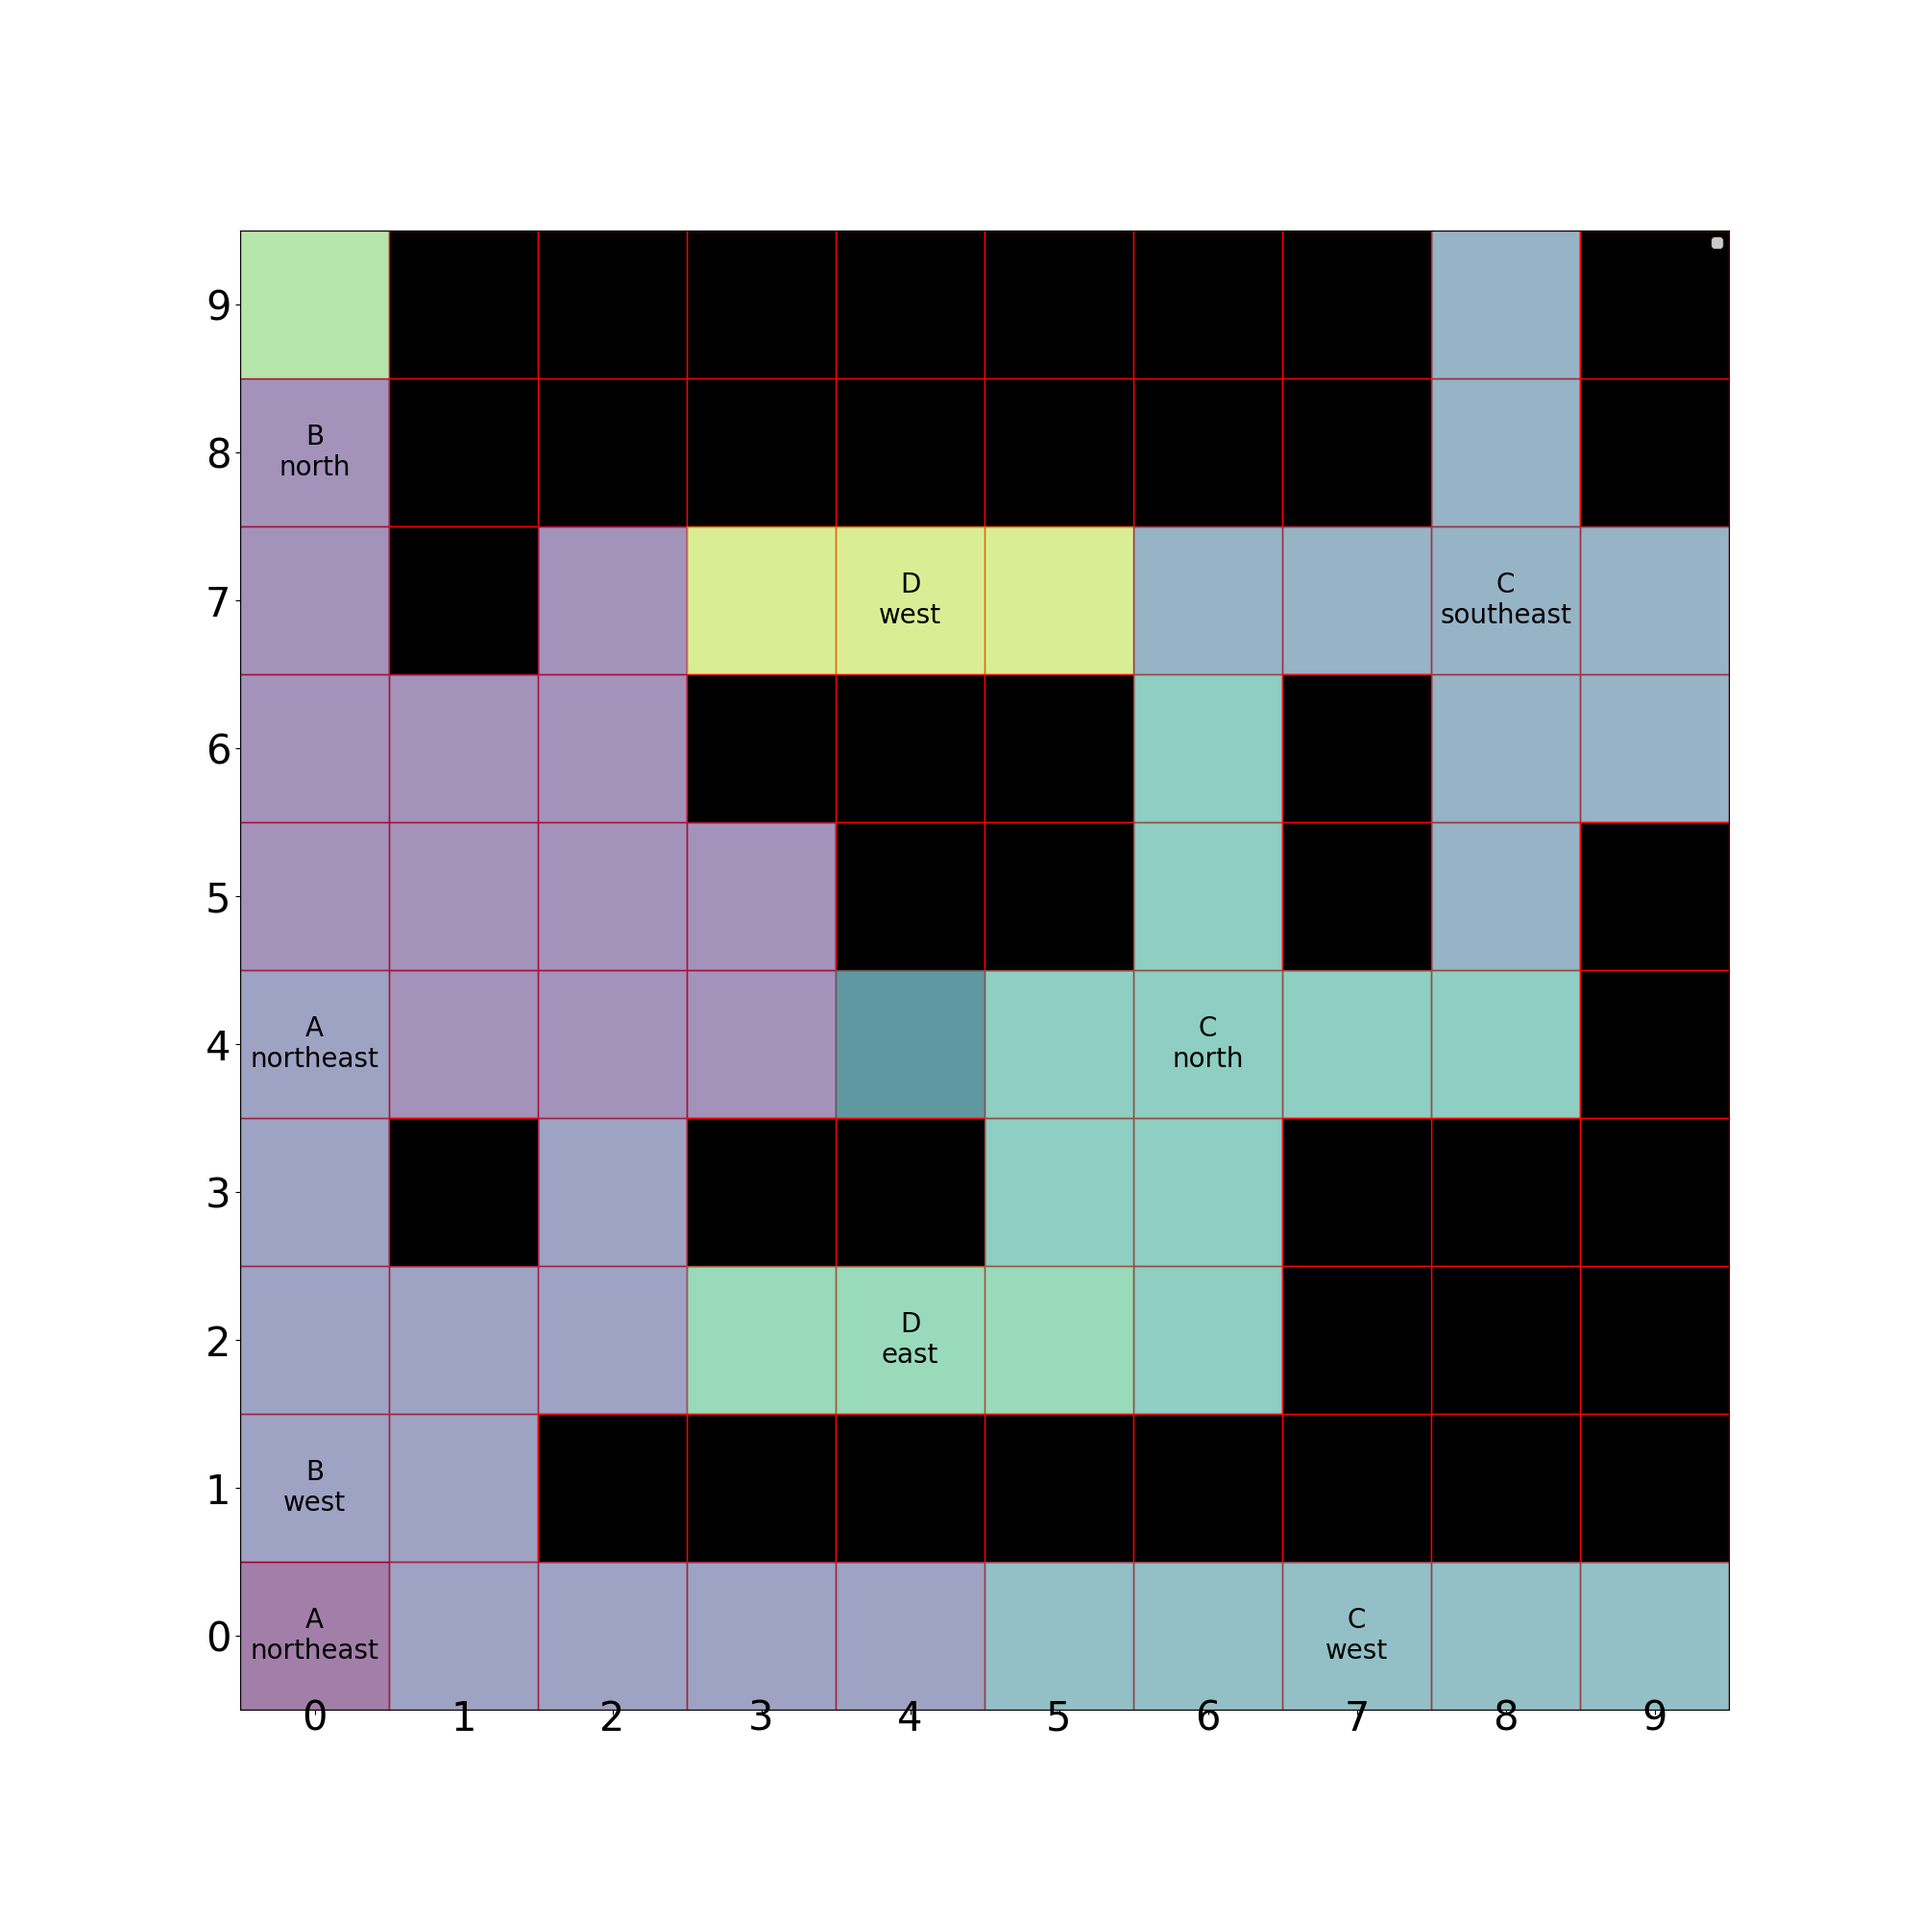
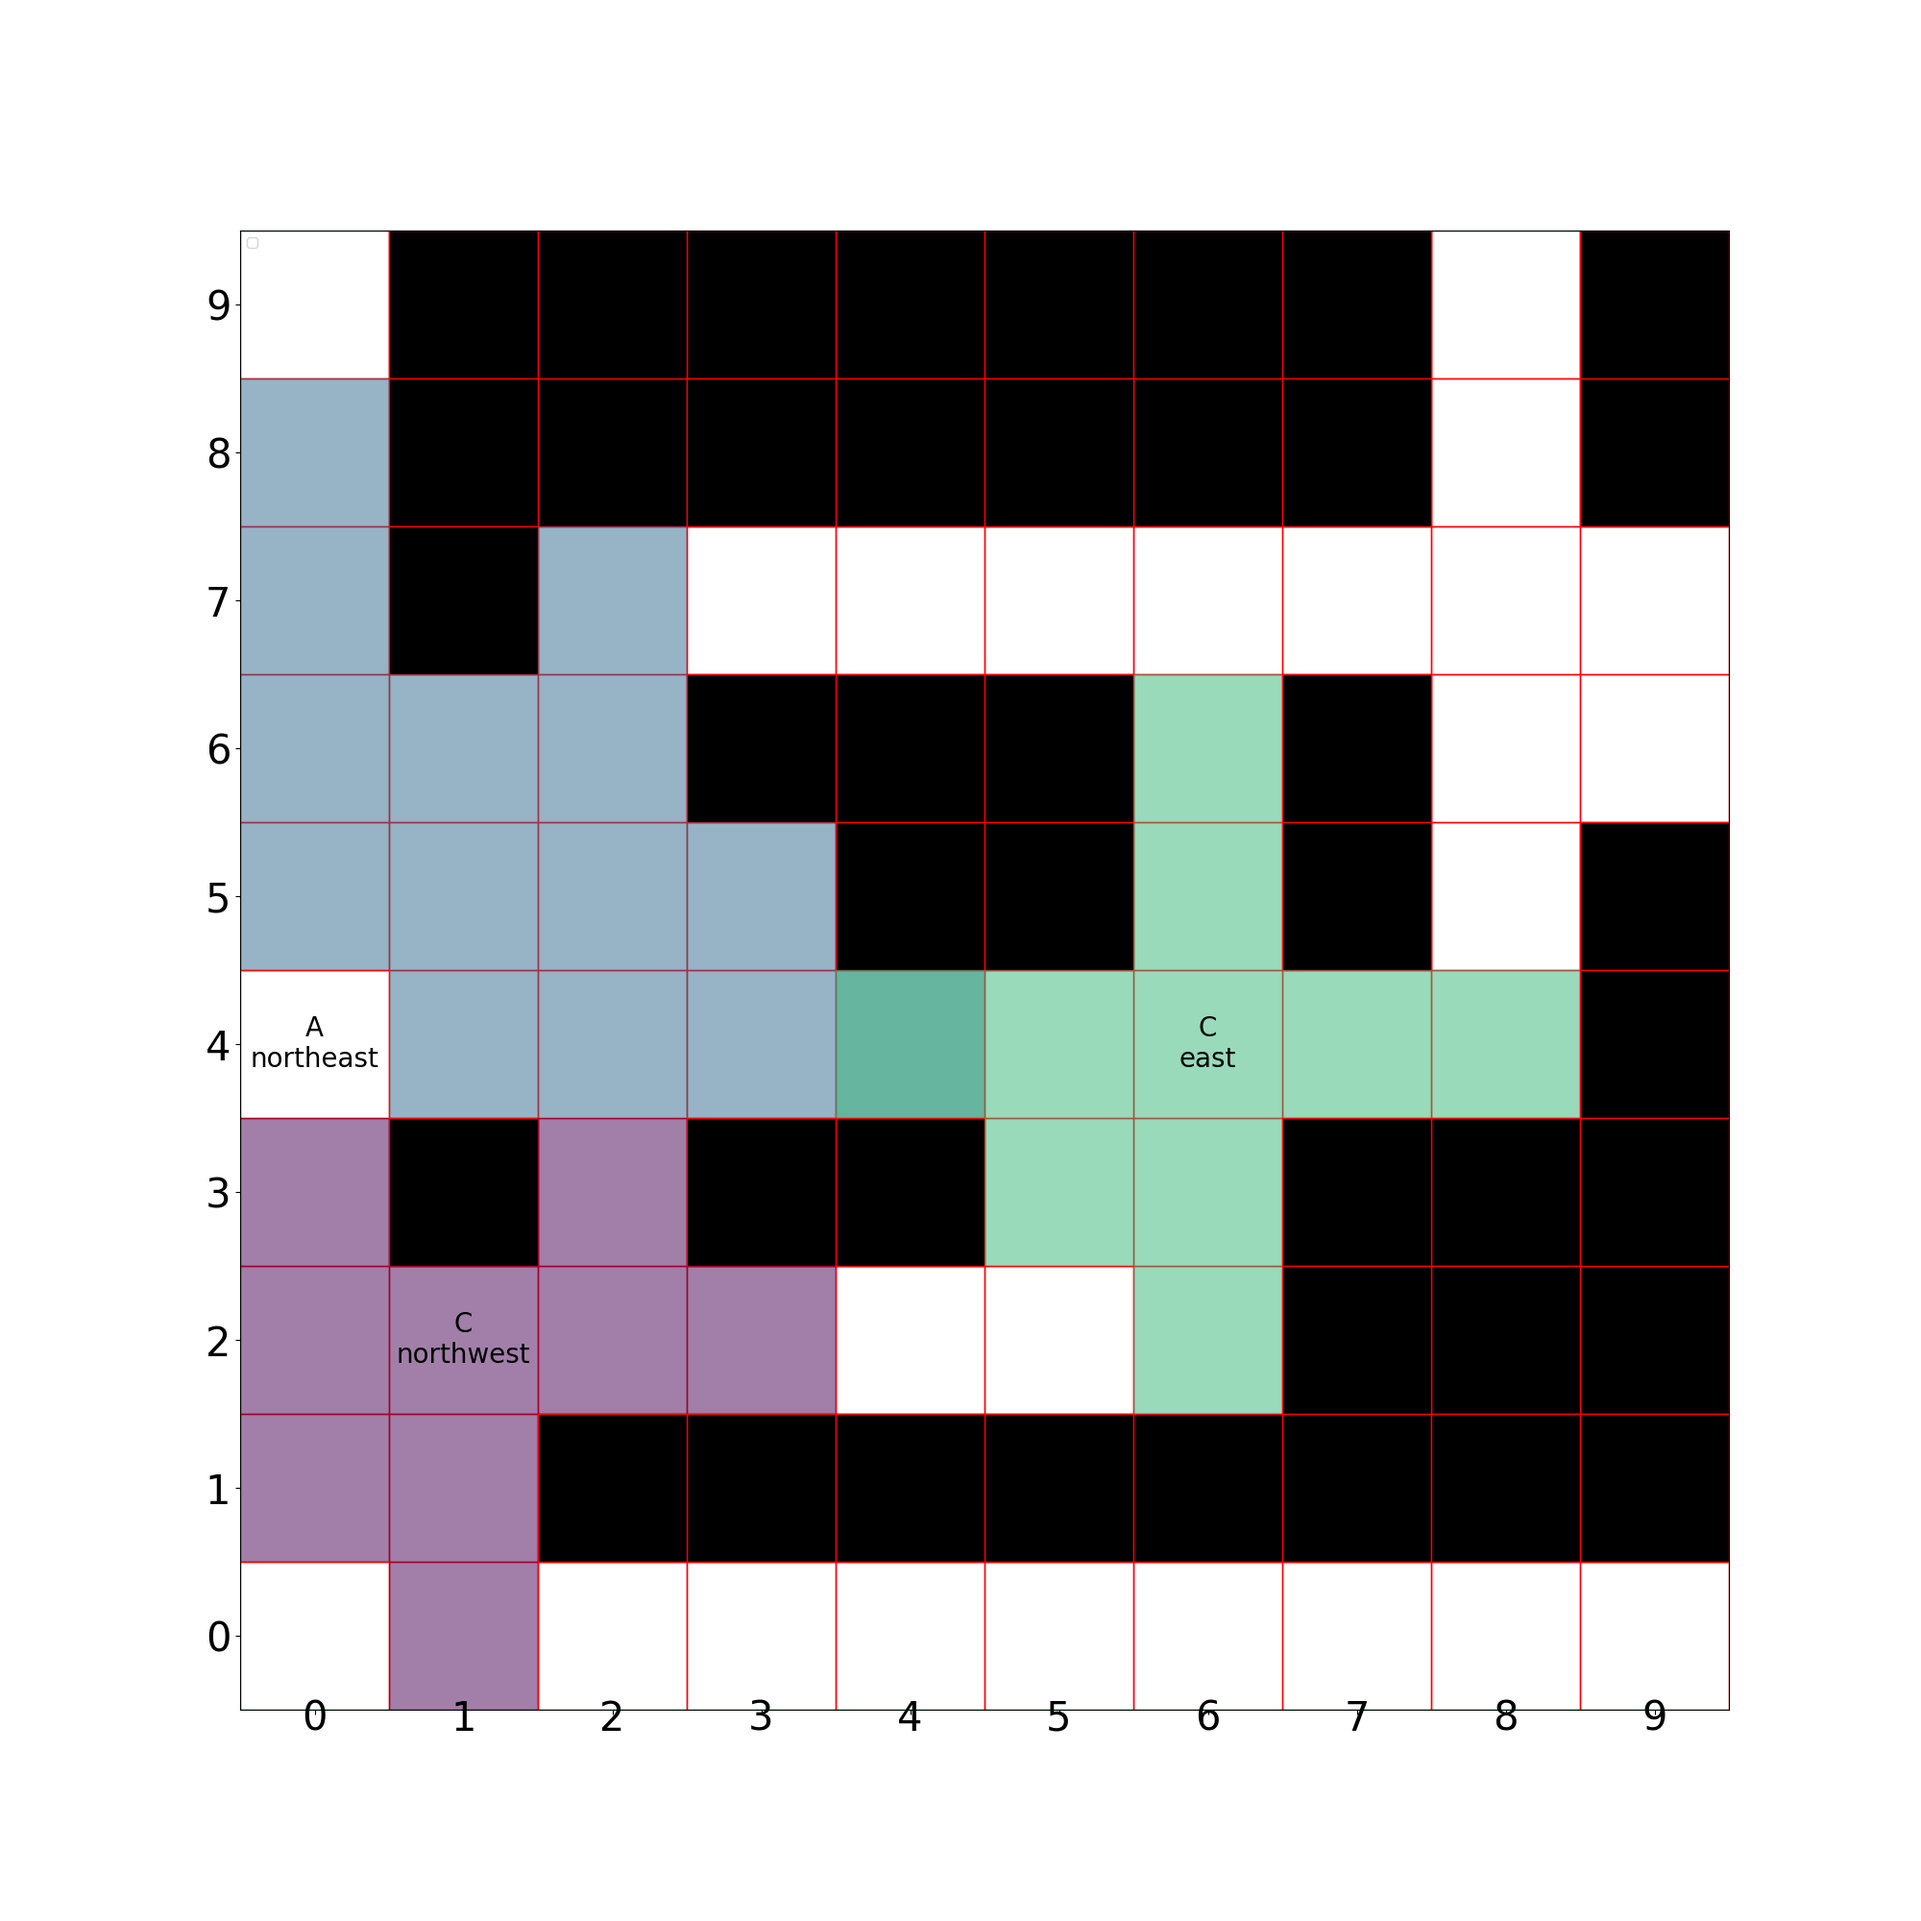
fix

Changed region(s): [[0.124, 0.093, 0.899, 0.899], [0.62, 0.527, 0.651, 0.558]]

diff --git a/main.py b/main.py
@@ -277,35 +277,21 @@ def visualize_camera_coverage_by_position(grid_size, x, coverage, obstacles):
 
 def calculate(positions, directions, coverage, camera_types, grid_size, budget, obstacles):
     # PuLP問題の設定
-    # prob = pulp.LpProblem("CameraPlacement", pulp.LpMaximize)
-    prob = pulp.LpProblem("CameraPlacement", pulp.LpMinimize)
+    prob = pulp.LpProblem("CameraPlacement", pulp.LpMaximize)
     x = pulp.LpVariable.dicts("x", ((pos, cam_type, dir) for pos in positions for cam_type in camera_types for dir in directions[cam_type]), cat="Binary")
-    # z = pulp.LpVariable.dicts("z", ((i, j) for i in range(grid_size[0]) for j in range(grid_size[1])), cat="Binary")
-
-    for pos in positions:
-        for cam_type in camera_types:
-            for dir in directions[cam_type]:
-                x[pos, cam_type, dir] = pulp.LpVariable(f"x_{pos}_{cam_type}_{dir}", cat="Binary")
-
+    z = pulp.LpVariable.dicts("z", ((i, j) for i in range(grid_size[0]) for j in range(grid_size[1])), cat="Binary")
     # 目的関数
-    # prob += pulp.lpSum([z[(i, j)] for i in range(grid_size[0]) for j in range(grid_size[1])])
-    prob += pulp.lpSum(camera_types[cam_type] * x[(pos, cam_type, dir)] for pos in positions for cam_type in camera_types for dir in directions[cam_type])
-
+    prob += pulp.lpSum([z[(i, j)] for i in range(grid_size[0]) for j in range(grid_size[1])])
     # 予算制約
-    # prob += pulp.lpSum(camera_types[cam_type] * x[(pos, cam_type, dir)] for pos in positions for cam_type in camera_types for dir in directions[cam_type]) <= budget
-
+    prob += pulp.lpSum(camera_types[cam_type] * x[(pos, cam_type, dir)] for pos in positions for cam_type in camera_types for dir in directions[cam_type]) <= budget
     # 配置制約
     for pos in positions:
         prob += pulp.lpSum([x[(pos, cam_type, dir)] for cam_type in camera_types for dir in directions[cam_type]]) <= 1
-
     # カバレッジ制約
-    for area in positions:
-        if area in obstacles:
-            continue
+    for i in range(grid_size[0]):
+        for j in range(grid_size[1]):
             # 各グリッドセル (i, j) がカバーされていることを確認
-            # prob += z[(i, j)] <= pulp.lpSum(x[pos, cam_type, dir] for pos in positions for cam_type in camera_types for dir in directions[cam_type] if (i, j) in coverage[pos][cam_type][dir])
-        prob += 1 <= pulp.lpSum(x[pos, cam_type, dir] for pos in positions for cam_type in camera_types for dir in directions[cam_type] if area in coverage[pos][cam_type][dir])
-
+            prob += z[(i, j)] <= pulp.lpSum(x[pos, cam_type, dir] for pos in positions for cam_type in camera_types for dir in directions[cam_type] if (i, j) in coverage[pos][cam_type][dir])
     # 問題を解く
     prob.solve()
 
@@ -358,23 +344,36 @@ def visualize_camera_coverage_by_x(grid_size, coverage, pos, cam_type, direction
     plt.legend()
     plt.savefig("camera_placement_by_position_x.png")
 
+def cam_possible(pos, obstacles):
+    i, j = pos
+    # チェックするべき隣接位置をリスト化
+    neighbors = [
+        (0, 0),   # 現在の位置
+        (1, 0),   # 右
+        (0, 1),   # 下
+        (1, 1),   # 右下
+        (-1, 0),  # 左
+        (0, -1),  # 上
+        (-1, -1), # 左上
+        (1, -1),  # 右上
+        (-1, 1)   # 左下
+    ]
+    
+    # どの隣接位置も障害物を含まないかチェック
+    for di, dj in neighbors:
+        if (i + di, j + dj) in obstacles:
+            return False
+    return True
 
 
 
 def main():
     grid_size = (10, 10)  # エリアのサイズ
-    positions = [(i, j) for i in range(grid_size[0]) for j in range(grid_size[1])]
-    directions = {
-        "A": ["north", "northeast", "east", "southeast", "south", "southwest", "west", "northwest"],
-        "B": ["north", "northeast", "east", "southeast", "south", "southwest", "west", "northwest"],
-        "C": ["north", "northeast", "east", "southeast", "south", "southwest", "west", "northwest"],
-        "D": ["north", "northeast", "east", "southeast", "south", "southwest", "west", "northwest"],
-        # "E": ["north", "northeast", "east", "southeast", "south", "southwest", "west", "northwest"],
-    }
+    directions = ["north", "northeast", "east", "southeast", "south", "southwest", "west", "northwest"]
     camera_distance = {"A": 4, "B": 1, "C": 2, "D": 1}  # Camera angles in degrees
     camera_angle = {"A": 90, "B": 180, "C": 360, "D": 360}  # Maximum observation distance
     camera_types={"A": 33,"B": 12, "C": 30, "D": 21}
-    budget = 150
+    budget = 100
     obstacles = {
         (1, 1),(2, 1), (3, 1), (4, 1), (5, 1), (6, 1), (7, 1), (8, 1), (9, 1), (10, 1), (11, 1), (12, 1), (13, 1), (14, 1), (15, 1), (16, 1), (17, 1), (18, 1), (19, 1), (20, 1), (21, 1), (22, 1), (23, 1), (24, 1), (25, 1), (26, 1), (27, 1), (28, 1),
         (2, 4), (4, 2), (4, 3), (4, 4), (4, 5), (4, 6), (4, 7), (4, 8), (4, 9), (4, 10), (4, 11), (4, 12), (4, 13), (4, 14), (4, 15), (4, 16), (4, 17), (4, 18), (4, 19), (4, 20), (4, 21), (4, 22), (4, 23), (4, 24), (4, 25), (4, 26), (4, 27), (4, 28),
@@ -401,11 +400,11 @@ def main():
         (29, 26), (29, 27), (29, 28), (29, 29),
         }
     obstacles = {(1, 3), (1, 7), (1, 8), (1, 9), (2, 1), (2, 8), (2, 9), (3, 1), (3, 3), (3, 6), (3, 8), (3, 9), (4, 1), (4, 3), (4, 5), (4, 6), (4, 8), (4, 9), (5, 1), (5, 5), (5, 6), (5, 8), (5, 9), (6, 1), (6, 8), (6, 9), (7, 1), (7, 2), (7, 3), (7, 5), (7, 6), (7, 8), (7, 9), (8, 1), (8, 2), (8, 3), (9, 1), (9, 2), (9, 3), (9, 4), (9, 5), (9, 8), (9, 9)}
+    positions = [(i, j) for i in range(grid_size[0]) for j in range(grid_size[1]) if not cam_possible((i, j), obstacles)]
+    import pdb; pdb.set_trace()
     coverage = compute_coverage(positions, directions, grid_size, camera_distance, obstacles, camera_angle)
     calculate(positions, directions, coverage, camera_types, grid_size=grid_size, budget=budget, obstacles=obstacles)
     pos, cam_type, direction = (3, 7), "A", "southwest"
-    import pdb; pdb.set_trace()
-    visualize_camera_coverage_by_x(grid_size, coverage, pos, cam_type, direction, obstacles)
 
 
 if __name__ == "__main__":
